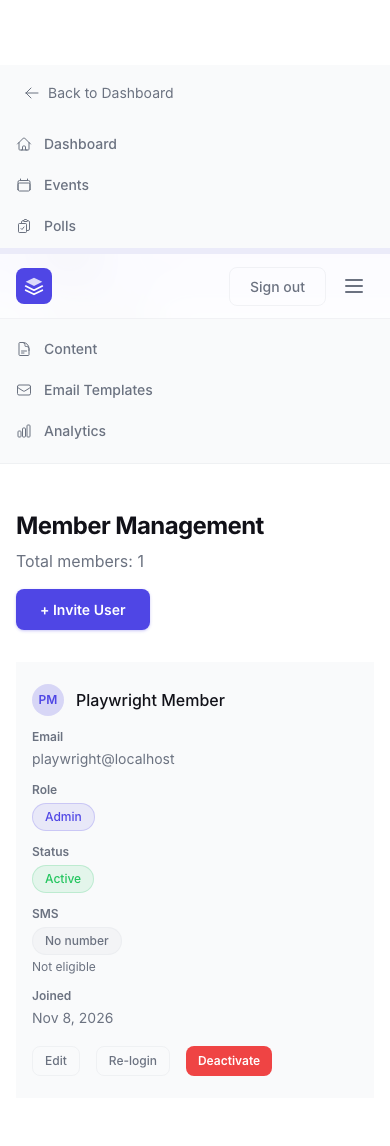
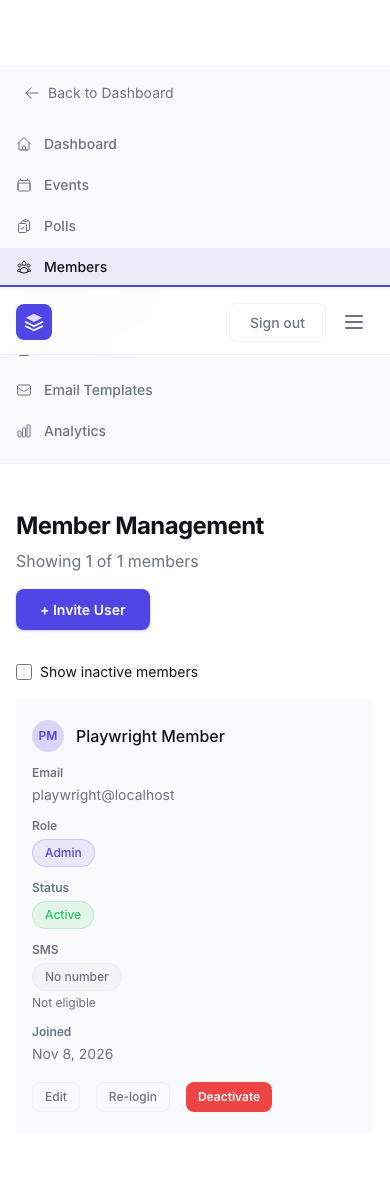
fix: hide inactive members by default (#380)

diff --git a/app/app/routes/dashboard.admin.members.tsx b/app/app/routes/dashboard.admin.members.tsx
@@ -337,6 +337,8 @@ export async function action({ request, context }: Route.ActionArgs) {
 export default function AdminMembersPage({ loaderData, actionData }: Route.ComponentProps) {
   const { members, templates } = loaderData;
   const [showAddForm, setShowAddForm] = useState(false);
+  const [showInactive, setShowInactive] = useState(false);
+  const visibleMembers = members.filter(member => showInactive || member.status !== 'inactive');
   const [editingId, setEditingId] = useState<number | null>(null);
   const [editData, setEditData] = useState({
     user_id: 0,
@@ -413,7 +415,7 @@ export default function AdminMembersPage({ loaderData, actionData }: Route.Compo
     <main className="page-main page-main-wide">
       <PageHeader
         title="Member Management"
-        description={`Total members: ${members.length}`}
+        description={`Showing ${visibleMembers.length} of ${members.length} members`}
         actions={
           <Button
             onClick={() => setShowAddForm(!showAddForm)}
@@ -544,6 +546,16 @@ export default function AdminMembersPage({ loaderData, actionData }: Route.Compo
         </Card>
       )}
 
+      <label className="mb-4 flex items-center gap-2 text-sm">
+        <input
+          type="checkbox"
+          checked={showInactive}
+          onChange={event => setShowInactive(event.target.checked)}
+          className="h-4 w-4 accent-accent"
+        />
+        Show inactive members
+      </label>
+
       {/* Members List */}
       <Card className="overflow-x-auto p-0">
         <table role="table" className="admin-members-table w-full sm:min-w-6xl divide-y divide-border">
@@ -576,7 +588,7 @@ export default function AdminMembersPage({ loaderData, actionData }: Route.Compo
             </tr>
           </thead>
           <tbody role="rowgroup" className="bg-card divide-y divide-border">
-            {members.map((member: Member) => (
+            {visibleMembers.map((member: Member) => (
               <tr role="row" key={member.id}>
                 {editingId === member.id ? (
                   <td role="cell" colSpan={7} className="px-6 py-4">

diff --git a/app/app/routes/dashboard.admin.members.route-ui.test.tsx b/app/app/routes/dashboard.admin.members.route-ui.test.tsx
@@ -278,6 +278,13 @@ describe("dashboard.admin.members loader and UI", () => {
       </MemoryRouter>
     );
 
+    expect(screen.queryByText("inactive@example.com")).not.toBeInTheDocument();
+    expect(screen.getByText("Showing 0 of 1 members")).toBeInTheDocument();
+    const toggle = screen.getByRole("checkbox", { name: "Show inactive members" });
+    expect(toggle).not.toBeChecked();
+    fireEvent.click(toggle);
+    expect(screen.getByText("inactive@example.com")).toBeInTheDocument();
+    expect(screen.getByText("Showing 1 of 1 members")).toBeInTheDocument();
     expect(screen.getByRole("cell", { name: /^Inactive$/ })).toBeInTheDocument();
     expect(screen.queryByText("Invited")).not.toBeInTheDocument();
     expect(screen.getByLabelText("SMS: Inactive. Not eligible.")).toHaveAttribute(
@@ -288,6 +295,8 @@ describe("dashboard.admin.members loader and UI", () => {
     expect(deactivateButton).toBeDisabled();
     fireEvent.click(deactivateButton);
     expect(submitSpy).not.toHaveBeenCalled();
+    fireEvent.click(toggle);
+    expect(screen.queryByText("inactive@example.com")).not.toBeInTheDocument();
   });
 
   it("shows each member's operational SMS eligibility without exposing phone numbers", () => {

diff --git a/tasks/todo.md b/tasks/todo.md
@@ -459,3 +459,13 @@ Working notes: isolated from unrelated original checkout edits at main 57c9e80. 
 Review checkpoint: guard invitation acceptance against concurrent deactivation. Email already in flight cannot be recalled. Inactive accounts remain visible to admins and cannot accept prior invitations; reactivation UI is outside this fix.
 
 Results: removal deactivates membership, clears admin privileges and revokes old sessions while preserving every linked record. Inactive landing/status copy and SMS eligibility are explicit. Queued event mail checks membership; invitation acceptance cannot overwrite concurrent deactivation. Verification on Node 24: 950 tests with coverage, typecheck, lint, secret scan, fresh/upgrade D1 checks and production build passed. Six Chromium/iPhone WebKit member-page checks passed; mobile screenshot reviewed. No new effects, migration, production mutation or deployment. Publish PR after signed commit; no reactivation UI added.
+
+
+## Hide inactive members by default (2026-11-08)
+Acceptance: inactive rows are hidden initially; admins can toggle them visible; active, invited and pending rows remain visible. Counts match visible rows.
+- [x] Inspect member table and existing component tests.
+- [x] Implement derived filtering and accessible checkbox.
+- [x] Verify component regressions, full tests, typecheck, lint and build.
+- [x] Publish signed PR #380: https://github.com/jeffspahr/meatup-club/pull/380.
+
+Results: inactive rows hidden by default, with an accessible show-inactive checkbox and matching visible/total counts. Filtering is derived during render, with no new effects. Node 24 verification: 1,029 tests, typecheck, lint, build and mobile browser check passed; screenshot reviewed. No data or schema changes.
